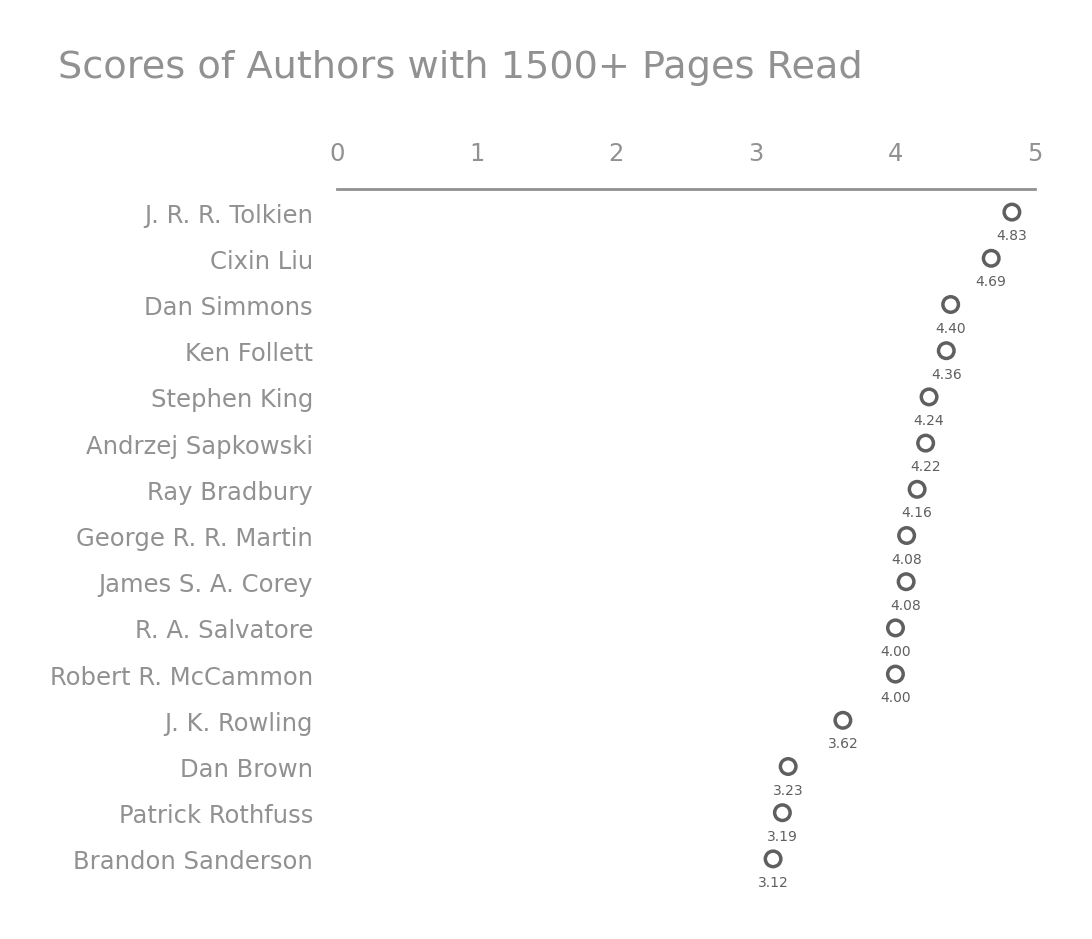
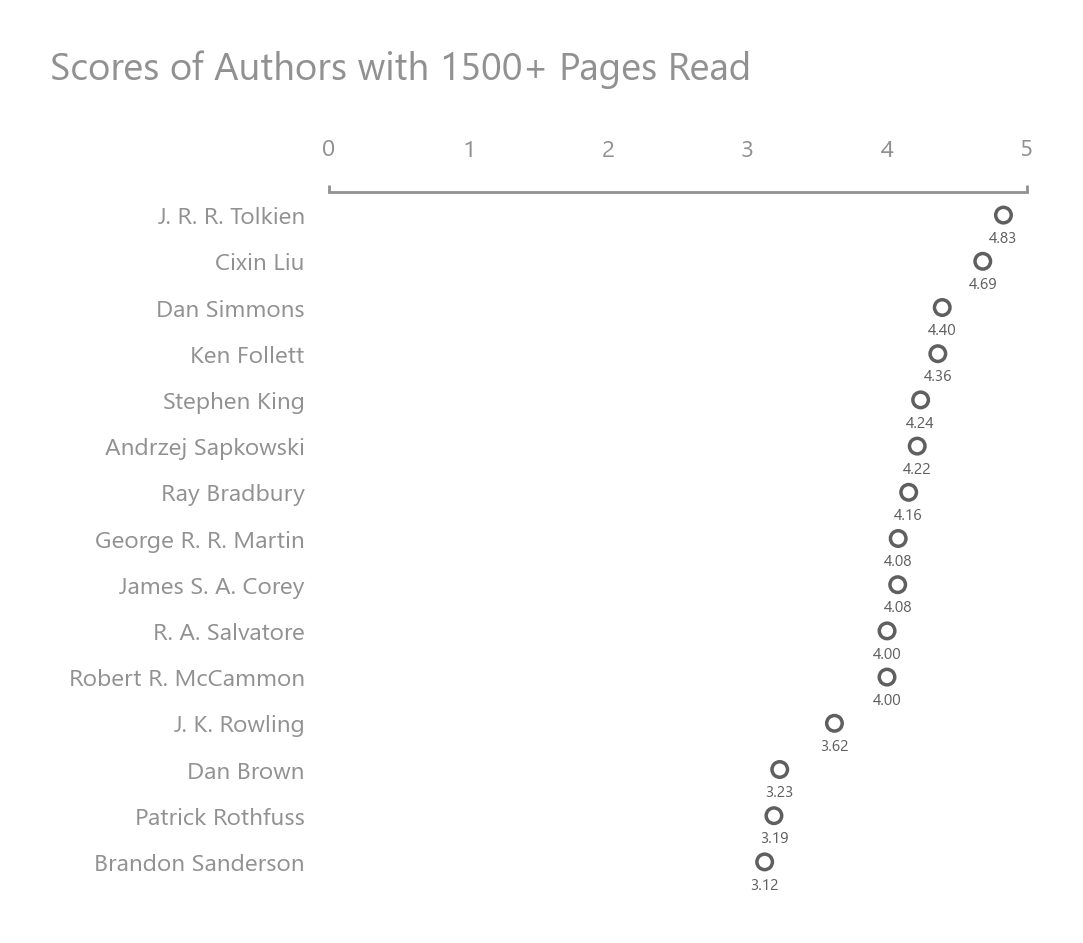
Update figures.

diff --git a/src/authors.py b/src/authors.py
@@ -7,11 +7,15 @@ import matplotlib.font_manager as fm
 
 from settings import Settings
 
-font_path = r"C:\Windows\Fonts\dubai-regular.ttf"
-font_prop = fm.FontProperties(fname=font_path)
+# font_path = r"C:\Windows\Fonts\segoeuii.ttf"
+# font_prop = fm.FontProperties(fname=font_path)
 
 DIMGRAY = "#5f5f5f"
 LIGHTGRAY = "#919191"
+WHITE = "#ffffff"
+TITLE_FONTSIZE = 5.5
+TICK_LABELS_FONTSIZE = 3.5
+FONTNAME = "Segoe UI"
 QUERY = """
     SELECT
         R.WorkID,
@@ -84,42 +88,55 @@ class AuthorsAnalysis:
 
 def plot_most_read_authors(df: pd.DataFrame) -> None:
     df = df.sort_values("PageCount", ascending=True).reset_index(drop=True)
+    positions = range(len(df))
 
     fig = plt.figure(figsize=(1.8, 1.8))
     gs = fig.add_gridspec(ncols=1, nrows=1, hspace=0, wspace=0)
     ax = fig.add_subplot(gs[0, 0])
 
     ax.set_ylim(-0.5, len(df) - 0.5)
-    ax.set_yticks([i for i in range(len(df))])
+    ax.set_yticks(positions)
     ax.set_yticklabels(df["Author"])
-
     ax.set_xlim(0, 25000)
-    ax.set_xticks([0, 5000, 10000, 15000, 20000, 25000])
-    ax.set_xticklabels(["0", "5k", "10k", "15k", "20k", "25k"])
+    ax.set_xticks([0, 25000])
+    ax.set_xticks([5000, 10000, 15000, 20000], minor=True)
+    ax.set_xticklabels(["0", "25k"], fontdict={"fontname": FONTNAME})
+    ax.set_xticklabels(["5k", "10k", "15k", "20k"], minor=True,
+                       fontdict={"fontname": FONTNAME})
 
     ax.xaxis.tick_top()
     ax.xaxis.set_label_position('top')
-    ax.tick_params(axis="x", which="both", length=0, width=0.4,
-                   labelsize=3.5, color=LIGHTGRAY, labelcolor=LIGHTGRAY)
-    ax.tick_params(axis="y", which="both", labelsize=3.5, length=0,
+
+    ax.tick_params(axis="x", which="major", length=1, width=0.4,
+                   labelsize=TICK_LABELS_FONTSIZE, color=LIGHTGRAY,
                    labelcolor=LIGHTGRAY)
+    ax.tick_params(axis="x", which="minor", length=1, width=0.4,
+                   labelsize=TICK_LABELS_FONTSIZE, color=WHITE,
+                   labelcolor=LIGHTGRAY)
+    ax.tick_params(axis="y", which="both", labelsize=TICK_LABELS_FONTSIZE,
+                   length=0, labelcolor=LIGHTGRAY)
+
+    for tick in ax.get_yticklabels():
+        tick.set_fontname(FONTNAME)
+
     for spine in ["right", "left", "bottom"]:
         ax.spines[spine].set_visible(False)
     ax.spines["top"].set_color(LIGHTGRAY)
     ax.spines["top"].set_linewidth(0.4)
 
-    ax.scatter(df["PageCount"], [i for i in range(len(df))], zorder=10,
+    ax.scatter(df["PageCount"], positions, zorder=10,
                color=DIMGRAY, s=5, facecolor="none", linewidths=0.5)
 
-    for i in range(len(df["Author"])):
-        pages_read = df["PageCount"].iloc[i]
-        ax.text(pages_read, i - 0.5, pages_read, zorder=11, size=2,
-                va="center", ha="center", color=DIMGRAY)
+    for i, row in df.iterrows():
+        ax.text(row["PageCount"], float(i) - 0.5, row["PageCount"], zorder=11,
+                size=2.25, va="center", ha="center", color=DIMGRAY,
+                fontname=FONTNAME)
 
     plt.text(
-        -0.4, 1.15, va="bottom", ha="left", fontsize=5.5,
+        -0.4, 1.15, va="bottom", ha="left", fontsize=TITLE_FONTSIZE,
         transform=ax.transAxes, color=LIGHTGRAY,
         s=f"Top {len(df)} Most Read Authors by Page Count",
+        fontname=FONTNAME,
     )
 
     fig.savefig("images/most_read_authors.png", dpi=500, bbox_inches="tight")
@@ -127,46 +144,57 @@ def plot_most_read_authors(df: pd.DataFrame) -> None:
 
 def plot_highest_rated_authors(df: pd.DataFrame) -> None:
     df_filtered = df.sort_values(
-        "WeightedScore", ascending=True).reset_index(
-            drop=True)
+        "WeightedScore", ascending=True).reset_index(drop=True)
+    positions = range(len(df_filtered))
 
     fig = plt.figure(figsize=(1.8, 1.8))
     gs = fig.add_gridspec(ncols=1, nrows=1, hspace=0, wspace=0)
     ax = fig.add_subplot(gs[0, 0])
 
     ax.set_ylim(-0.5, len(df_filtered) - 0.5)
-    ax.set_yticks([i for i in range(len(df_filtered))])
+    ax.set_yticks(positions)
     ax.set_yticklabels(df_filtered["Author"])
-
     ax.set_xlim(0, 5)
-    ax.set_xticks([0, 1, 2, 3, 4, 5])
+    ax.set_xticks([0, 5])
+    ax.set_xticks([1, 2, 3, 4], minor=True)
+    ax.set_xticklabels(["0", "5"], fontdict={"fontname": FONTNAME})
+    ax.set_xticklabels(["1", "2", "3", "4"], minor=True,
+                       fontdict={"fontname": FONTNAME})
 
     ax.xaxis.tick_top()
     ax.xaxis.set_label_position('top')
-    ax.tick_params(axis="x", which="both", length=0, width=0.4,
-                   labelsize=3.5, color=LIGHTGRAY, labelcolor=LIGHTGRAY)
-    ax.tick_params(axis="y", which="both", labelsize=3.5, length=0,
+
+    ax.tick_params(axis="x", which="major", length=1, width=0.4,
+                   labelsize=TICK_LABELS_FONTSIZE, color=LIGHTGRAY,
                    labelcolor=LIGHTGRAY)
+    ax.tick_params(axis="x", which="minor", length=1, width=0.4,
+                   labelsize=TICK_LABELS_FONTSIZE, color=WHITE,
+                   labelcolor=LIGHTGRAY)
+    ax.tick_params(axis="y", which="both", labelsize=TICK_LABELS_FONTSIZE,
+                   length=0, labelcolor=LIGHTGRAY)
+
+    for tick in ax.get_yticklabels():
+        tick.set_fontname(FONTNAME)
+
     for spine in ["right", "left", "bottom"]:
         ax.spines[spine].set_visible(False)
     ax.spines["top"].set_color(LIGHTGRAY)
     ax.spines["top"].set_linewidth(0.4)
 
-    ax.scatter(df_filtered["WeightedScore"],
-               [i for i in range(len(df_filtered))],
-               zorder=10, color=DIMGRAY, s=5, facecolor="none",
-               linewidths=0.5)
+    ax.scatter(df_filtered["WeightedScore"], positions, zorder=10,
+               color=DIMGRAY, s=5, facecolor="none", linewidths=0.5)
 
-    for i in range(len(df_filtered["Author"])):
-        weighted_score = df_filtered["WeightedScore"].iloc[i]
-        ax.text(weighted_score, i - 0.5,
-                str(round(weighted_score, 2)).ljust(4, "0"),
-                zorder=11, size=2, va="center", ha="center", color=DIMGRAY)
+    for i, score in enumerate(df_filtered["WeightedScore"]):
+        ax.text(score, i - 0.5,
+                str(round(score, 2)).ljust(4, "0"),
+                zorder=11, size=2.25, va="center", ha="center", color=DIMGRAY,
+                fontname=FONTNAME,)
 
     plt.text(
-        -0.4, 1.15, va="bottom", ha="left", fontsize=5.5,
+        -0.4, 1.15, va="bottom", ha="left", fontsize=TITLE_FONTSIZE,
         transform=ax.transAxes, color=LIGHTGRAY,
         s=f"Scores of Authors with {df.min_pages_read}+ Pages Read",
+        fontname=FONTNAME,
     )
 
     fig.savefig("images/highest_rated_authors.png",
